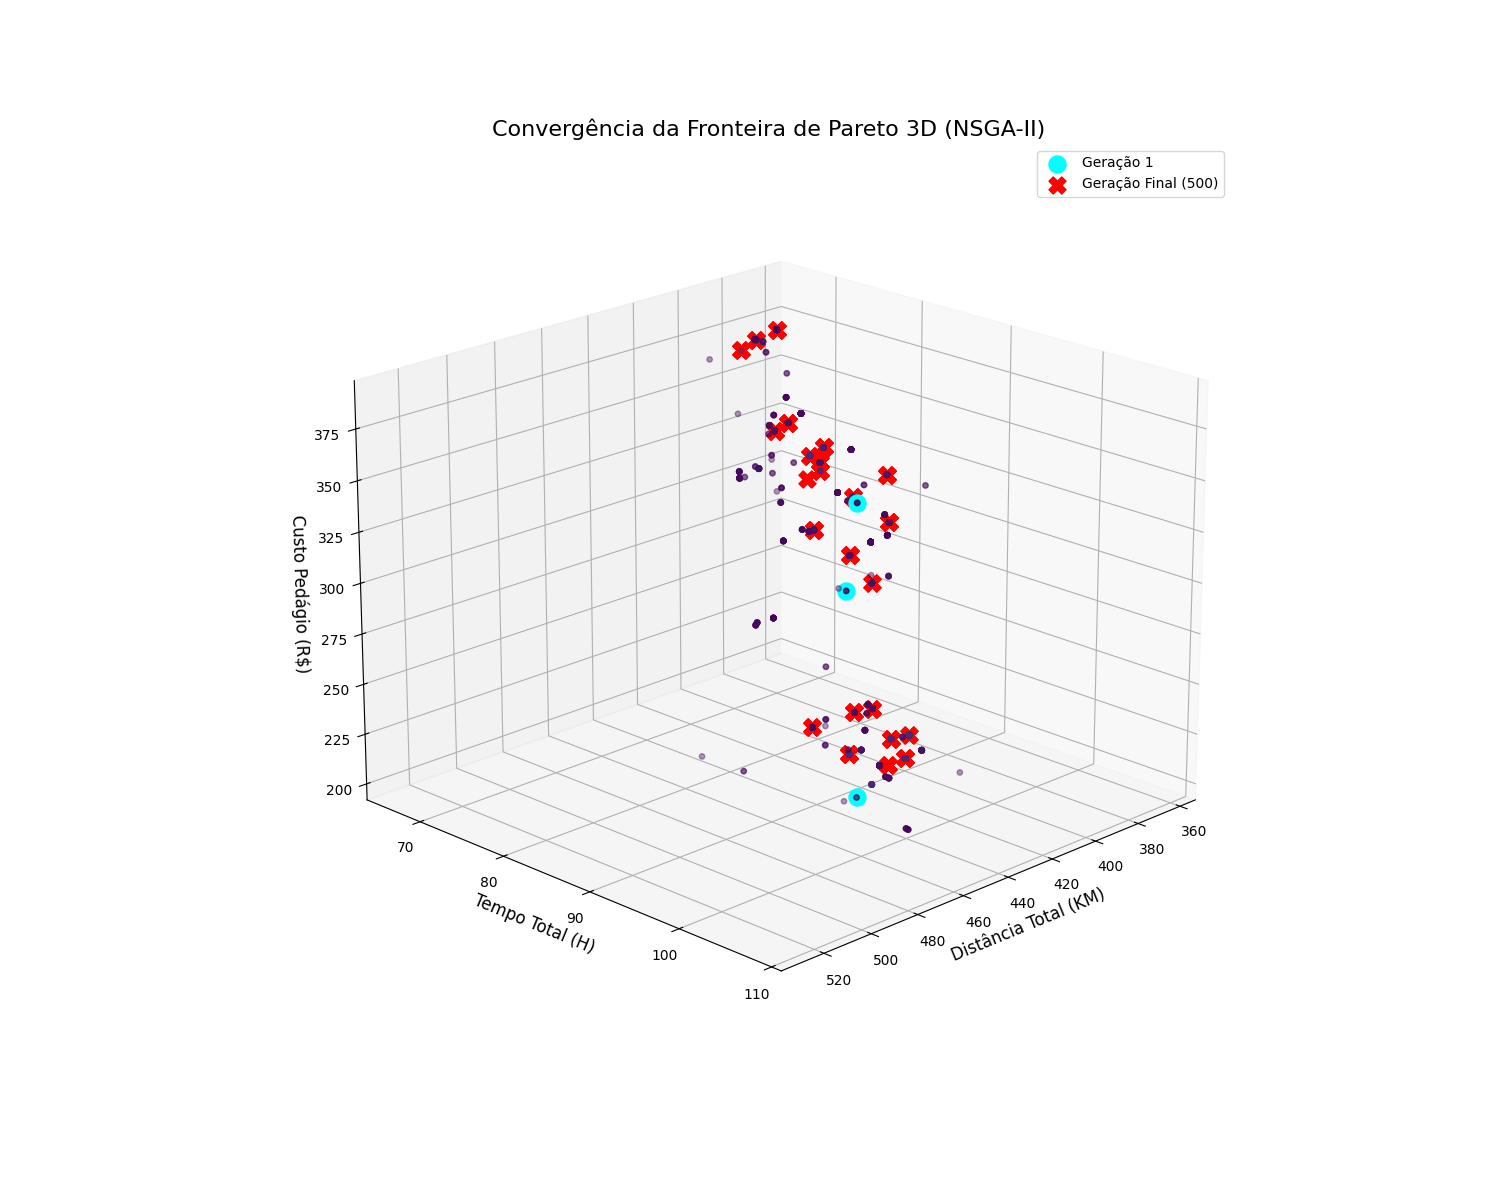
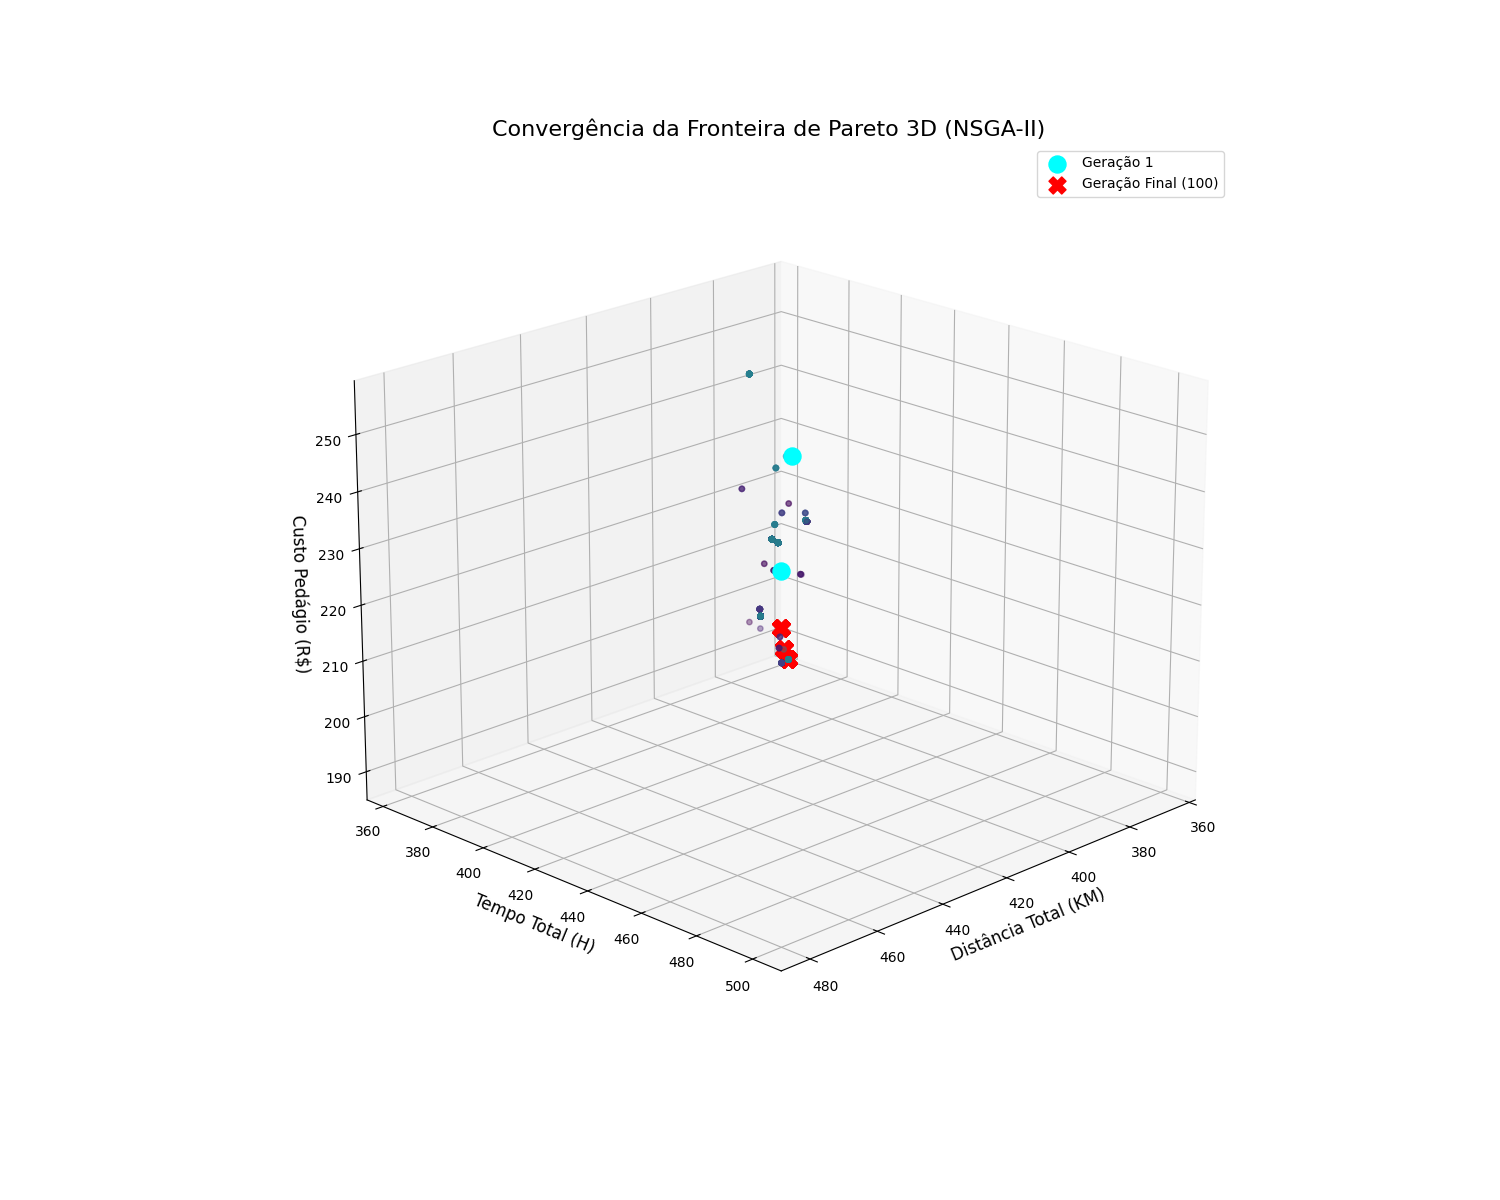
Vai Tomando

diff --git a/main.py b/main.py
@@ -160,7 +160,6 @@ if __name__ == '__main__':
         print(tabulate(table_data, headers=headers, tablefmt="grid"))
         #print(f'Dentre os 3 objetivos, temos na população final, o melhor para cada um deles:\n menor distância: {historico_plot}')
 
-    # --- Seu código para gerar o gráfico permanece exatamente o mesmo ---
     fig = plt.figure(figsize=(15, 12))
     ax = fig.add_subplot(111, projection='3d')
     cores = cm.viridis(np.linspace(0, 1, NUM_GERACOES))
@@ -182,4 +181,76 @@ if __name__ == '__main__':
     ax.legend()
     ax.view_init(elev=20, azim=45)
     plt.savefig('convergencia_pareto_todas_geracoes.png')
+    plt.figure(figsize=(18, 12))
+
+    # Gráfico 1: Distância vs Tempo
+    plt.subplot(2, 2, 1)
+    for i, fronteira in enumerate(historico_plot):
+        if len(fronteira) > 0:
+            plt.scatter(fronteira[:, 0], fronteira[:, 1], color=cores[i], alpha=0.4, s=15)
+    if len(fronteira_inicial) > 0:
+        plt.scatter(fronteira_inicial[:, 0], fronteira_inicial[:, 1], 
+                color='cyan', s=150, marker='o', label='Geração 1', zorder=10)
+    if len(fronteira_final) > 0:
+        plt.scatter(fronteira_final[:, 0], fronteira_final[:, 1], 
+                color='red', s=150, marker='X', label=f'Geração Final ({NUM_GERACOES})', zorder=10)
+    plt.xlabel('Distância Total (KM)')
+    plt.ylabel('Tempo Total (H)')
+    plt.title('Distância vs Tempo')
+    plt.legend()
+    plt.grid(True, alpha=0.3)
+
+    # Gráfico 2: Distância vs Pedágio
+    plt.subplot(2, 2, 2)
+    for i, fronteira in enumerate(historico_plot):
+        if len(fronteira) > 0:
+            plt.scatter(fronteira[:, 0], fronteira[:, 2], color=cores[i], alpha=0.4, s=15)
+    if len(fronteira_inicial) > 0:
+        plt.scatter(fronteira_inicial[:, 0], fronteira_inicial[:, 2], 
+                color='cyan', s=150, marker='o', label='Geração 1', zorder=10)
+    if len(fronteira_final) > 0:
+        plt.scatter(fronteira_final[:, 0], fronteira_final[:, 2], 
+                color='red', s=150, marker='X', label=f'Geração Final ({NUM_GERACOES})', zorder=10)
+    plt.xlabel('Distância Total (KM)')
+    plt.ylabel('Custo Pedágio (R$)')
+    plt.title('Distância vs Pedágio')
+    plt.legend()
+    plt.grid(True, alpha=0.3)
+
+    # Gráfico 3: Tempo vs Pedágio
+    plt.subplot(2, 2, 3)
+    for i, fronteira in enumerate(historico_plot):
+        if len(fronteira) > 0:
+            plt.scatter(fronteira[:, 1], fronteira[:, 2], color=cores[i], alpha=0.4, s=15)
+    if len(fronteira_inicial) > 0:
+        plt.scatter(fronteira_inicial[:, 1], fronteira_inicial[:, 2], 
+                color='cyan', s=150, marker='o', label='Geração 1', zorder=10)
+    if len(fronteira_final) > 0:
+        plt.scatter(fronteira_final[:, 1], fronteira_final[:, 2], 
+                color='red', s=150, marker='X', label=f'Geração Final ({NUM_GERACOES})', zorder=10)
+    plt.xlabel('Tempo Total (H)')
+    plt.ylabel('Custo Pedágio (R$)')
+    plt.title('Tempo vs Pedágio')
+    plt.legend()
+    plt.grid(True, alpha=0.3)
+
+    # Gráfico 4: Evolução do tamanho da fronteira de Pareto
+    plt.subplot(2, 2, 4)
+    tamanhos_fronteiras = [len(fronteira) for fronteira in historico_plot]
+    geracoes = range(1, len(tamanhos_fronteiras) + 1)
+    plt.plot(geracoes, tamanhos_fronteiras, 'b-', linewidth=2, marker='o', markersize=4)
+    plt.xlabel('Geração')
+    plt.ylabel('Tamanho da Fronteira')
+    plt.title('Evolução do Tamanho da Fronteira de Pareto')
+    plt.grid(True, alpha=0.3)
+
+    plt.tight_layout()
+    plt.savefig('analise_pareto_2d.png')
+
+    print("\n--- ANÁLISE ESTATÍSTICA DA FRONTEIRA FINAL ---")
+    if len(fronteira_final) > 0:
+        print(f"Total de soluções na fronteira: {len(fronteira_final)}")
+        print(f"Distância: Min={fronteira_final[:, 0].min():.2f}KM, Max={fronteira_final[:, 0].max():.2f}KM")
+        print(f"Tempo: Min={fronteira_final[:, 1].min():.2f}H, Max={fronteira_final[:, 1].max():.2f}H")
+        print(f"Pedágio: Min={fronteira_final[:, 2].min():.2f}R$, Max={fronteira_final[:, 2].max():.2f}R$")
     plt.show()

diff --git a/AGFuncs.py b/AGFuncs.py
@@ -15,7 +15,7 @@ CIDADES: Final[dict] = {
     35: (12, 35), 36: (32, 45), 37: (52, 55), 38: (72, 75), 39: (92, 85),
     40: (18, 75), 41: (38, 65), 42: (58, 35), 43: (78, 55), 44: (98, 25),
     45: (22, 85), 46: (42, 15), 47: (62, 85), 48: (82, 5), 49: (95, 95)
-}
+}   
 
 def iniciaPopulacao(populacao):
     # Cria o conjunto de população com valores aleatorios
@@ -29,9 +29,9 @@ def distancia(cidade1, cidade2):
     x2, y2 = CIDADES[(cidade2)]
     return np.sqrt((x2 - x1)**2 + (y2 - y1)**2)
 
-TEMPO = np.zeros((50, 50))
-for i in range(50):
-    for j in range(50):
+TEMPO = np.zeros((len(CIDADES), len(CIDADES)))
+for i in range(len(CIDADES)):
+    for j in range(len(CIDADES)):
         if i == j:
             TEMPO[i][j] = None
         else:
@@ -39,9 +39,10 @@ for i in range(50):
             ruido = np.random.uniform(0.9, 1.1)
             TEMPO[i][j] = dist * ruido
 
-PRECO_PEDAGIO = np.zeros((50, 50))
-for i in range(50):
-    for j in range(50):
+PRECO_PEDAGIO = np.zeros((len(CIDADES), len(CIDADES)))
+
+for i in range(len(CIDADES)):
+    for j in range(len(CIDADES)):
         if i == j:
             PRECO_PEDAGIO[i][j] = None
         else:
@@ -202,11 +203,11 @@ def selecao_NSGA2(ranks, crowding_metrics, k=2):
         return idx2
 
 
-def mutacao_swap(cromossomo, taxa_mutacao=0.1):
+def mutacao_swap(cromossomo, TAXA_MUTACAO):
     """
     Aplica mutação trocando a posição de duas cidades.
     """
-    if random.random() < taxa_mutacao:
+    if random.random() < TAXA_MUTACAO:
         idx1, idx2 = np.random.choice(len(cromossomo), 2, replace=False)
         cromossomo[idx1], cromossomo[idx2] = cromossomo[idx2], cromossomo[idx1]
     return cromossomo
